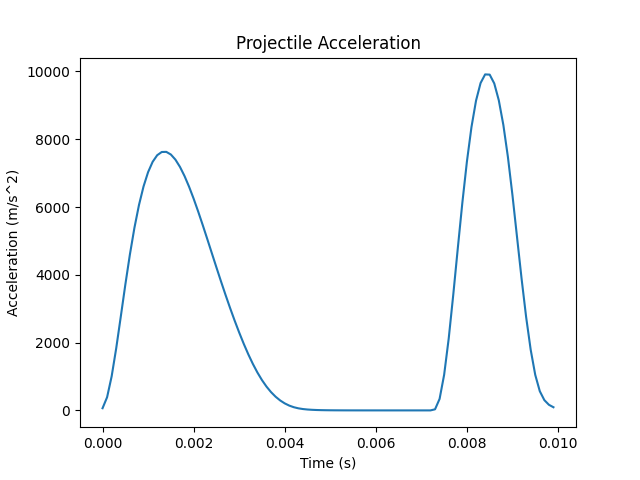
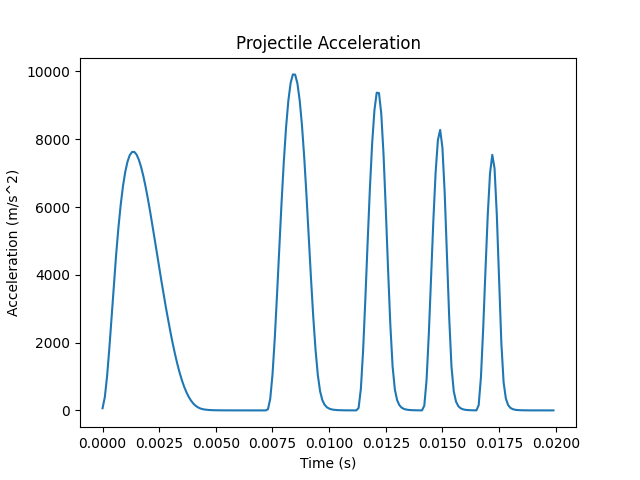
Fixes

diff --git a/Simulation/main.py b/Simulation/main.py
@@ -26,39 +26,69 @@ stage5 = classes.Stage(driver5, 0.4, 0.4, 0.0048, 450)
 
 # Projectile
 # Coil, position, mass
-payload = classes.Projectile(armature, 0.01, 0.1)
+projectile = classes.Projectile(armature, 0.01, 0.1)
 
 
-runtime = 0.01
+runtime = 0.02
 timestep = 0.0001
 
 stage_list = [stage1, stage2, stage3, stage4, stage5]
 velocities = []
 accelerations = []
 positions = []
+armature_currents = []
+
+armature_energy = []
+driver_energy = []
+efficiency = []
 
 for step in np.arange(0, runtime, timestep):
     # Timestep, step, driver list, projectile
-    output = run.run_turn(timestep, stage_list, payload)
-    velocities.append(output.vel)
-    accelerations.append(output.accel)
-    positions.append(output.pos)
+    output = run.run_turn(timestep, stage_list, projectile)
 
+    velocities.append(output[0].vel)
+    accelerations.append(output[0].accel)
+    positions.append(output[0].pos)
+    armature_currents.append(output[0].coil.current)
+
+    armature_energy.append(armature.energy)
+    driver_energy.append(driver1.energy + driver2.energy + driver3.energy + driver4.energy + driver5.energy)
+    efficiency.append(armature.energy / (driver1.energy + driver2.energy + driver3.energy + driver4.energy + driver5.energy))
+
+
+time = np.arange(0, runtime, timestep)
 
 figp, p = plt.subplots()
-p.plot(np.arange(0, runtime, timestep), positions)
+p.plot(time, positions)
 p.set(xlabel='Time (s)', ylabel='Position (m)', title='Projectile Position')
-figp.savefig("vel.png")
+figp.savefig("pos.png")
 
 figv, v = plt.subplots()
-v.plot(np.arange(0, runtime, timestep), velocities)
+v.plot(time, velocities)
 v.set(xlabel='Time (s)', ylabel='Velocity (m/s)', title='Projectile Velocity')
 figv.savefig("vel.png")
 
 figa, p = plt.subplots()
-p.plot(np.arange(0, runtime, timestep), accelerations)
+p.plot(time, accelerations)
 p.set(xlabel='Time (s)', ylabel='Acceleration (m/s^2)', title='Projectile Acceleration')
 figa.savefig("accel.png")
 
-plt.show()
+figi, i = plt.subplots()
+i.plot(time, driver1.currents_list, time, driver2.currents_list, time, driver3.currents_list, time, driver4.currents_list, time, driver5.currents_list, time, armature_currents)
+i.set(xlabel='Time (s)', ylabel='Currents (A)', title='Currents')
+i.legend(['Driver 1', 'Driver 2', 'Driver 3', 'Driver 4', 'Driver 5', 'Armature'])
+figi.savefig("currents.png")
 
+fign, n = plt.subplots()
+n.plot(time, efficiency)
+n.set(xlabel='Time (s)', ylabel='Efficiency', title='Coilgun Efficiency')
+fign.savefig("efficiency.png")
+
+fige, e = plt.subplots()
+e.plot(time, driver1.energy_list, time, driver2.energy_list, time, driver3.energy_list, time, driver4.energy_list, time, driver5.energy_list, time, armature.energy_list)
+e.set(xlabel='Time (s)', ylabel='Energy (J)', title='Energy')
+e.legend(['Driver 1', 'Driver 2', 'Driver 3', 'Driver 4', 'Driver 5', 'Armature'])
+fige.savefig("Energy.png")
+
+
+plt.show()

diff --git a/Simulation/run_step.py b/Simulation/run_step.py
@@ -1,19 +1,20 @@
 import methods
 
 on_drivers = []
+driver_currents = []
 def run_turn(timestep, stage_list, projectile):
-
+    armature = projectile.coil
+    armature.pos = projectile.pos
     switch = min(projectile.stage, len(stage_list) - 1)
     force = 0
 
-    if(projectile.pos >= stage_list[switch].trigger_pos and switch <= len(stage_list)):
+    if(armature.pos >= stage_list[switch].trigger_pos and projectile.stage < len(stage_list)):
         on_drivers.append(stage_list[switch])
         projectile.stage += 1
         print("Switched stage", switch + 1)
 
     for stage in on_drivers:
         driver = stage.coil
-        armature = projectile.coil
 
         methods.increment_time(timestep, driver)
         methods.increment_time(timestep, armature)
@@ -24,6 +25,13 @@ def run_turn(timestep, stage_list, projectile):
 
         force += methods.magnetic_force(stage, projectile)
 
+    for stage in stage_list:
+        driver = stage.coil
+        driver.currents_list.append(driver.current)
+        driver.energy_list.append(driver.energy)
+
+    armature.energy_list.append(armature.energy)
+
     methods.solve_kinematics(projectile, force, timestep)
-    #print(stage_list[0].coil.current, stage_list[1].coil.current)
-    return projectile
+
+    return projectile, armature

diff --git a/Simulation/methods.py b/Simulation/methods.py
@@ -75,11 +75,13 @@ def magnetic_force(stage, projectile):
 
 
 def solve_kinematics(projectile, F, timestep):
+    armature = projectile.coil
+
     projectile.accel = F / projectile.mass
     projectile.vel = projectile.vel + projectile.accel * timestep
     projectile.pos = projectile.pos + projectile.vel * timestep
+    armature.pos = projectile.pos
 
     projectile.kinetic_energy = pow(projectile.vel, 2) * 0.5 * projectile.mass
 
-    coil = projectile.coil
-    coil.pos = projectile.pos
+

diff --git a/Simulation/classes.py b/Simulation/classes.py
@@ -29,8 +29,10 @@ class Coil:
 
         self.inductance = parameters.mu0 * self.area * pow(self.turns, 2) / length
         self.resistance = self.wire_resistance
-
         self.tau = self.inductance / self.resistance
+
+        self.currents_list = []
+        self.energy_list = []
 
         print("Wire Length", self.wire_length, "m")
         print("Wire Mass", self.wire_mass, "kg")
